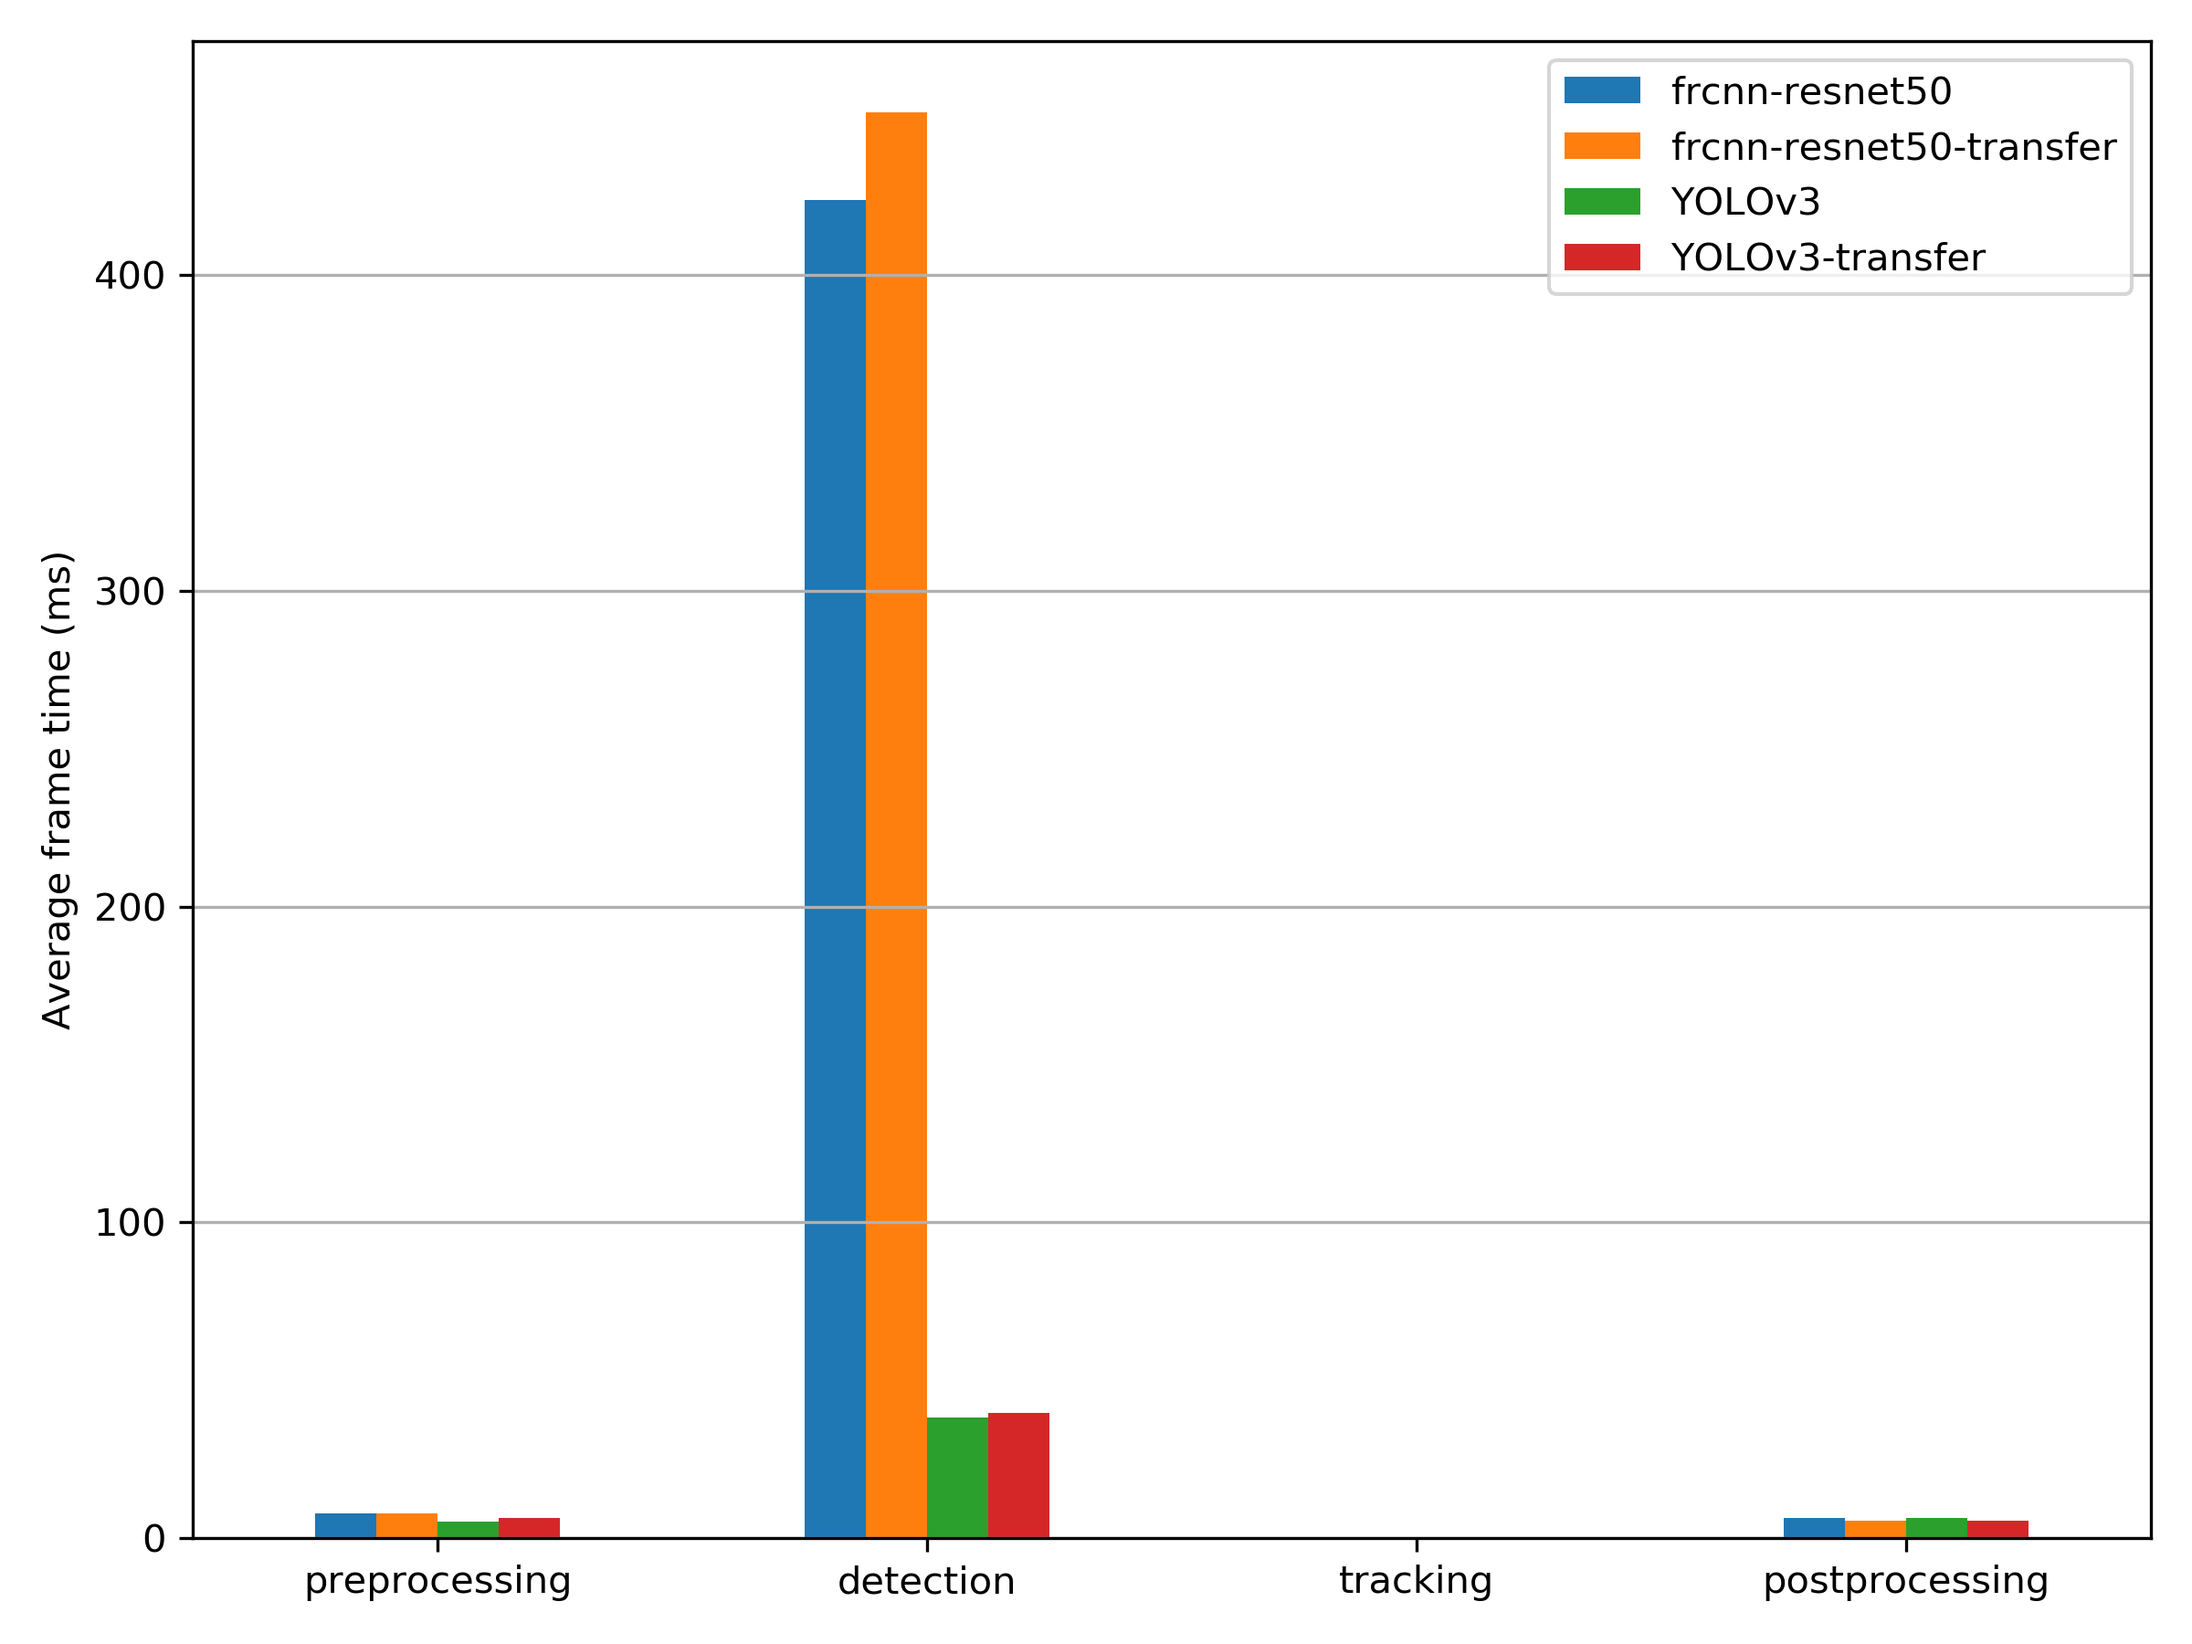
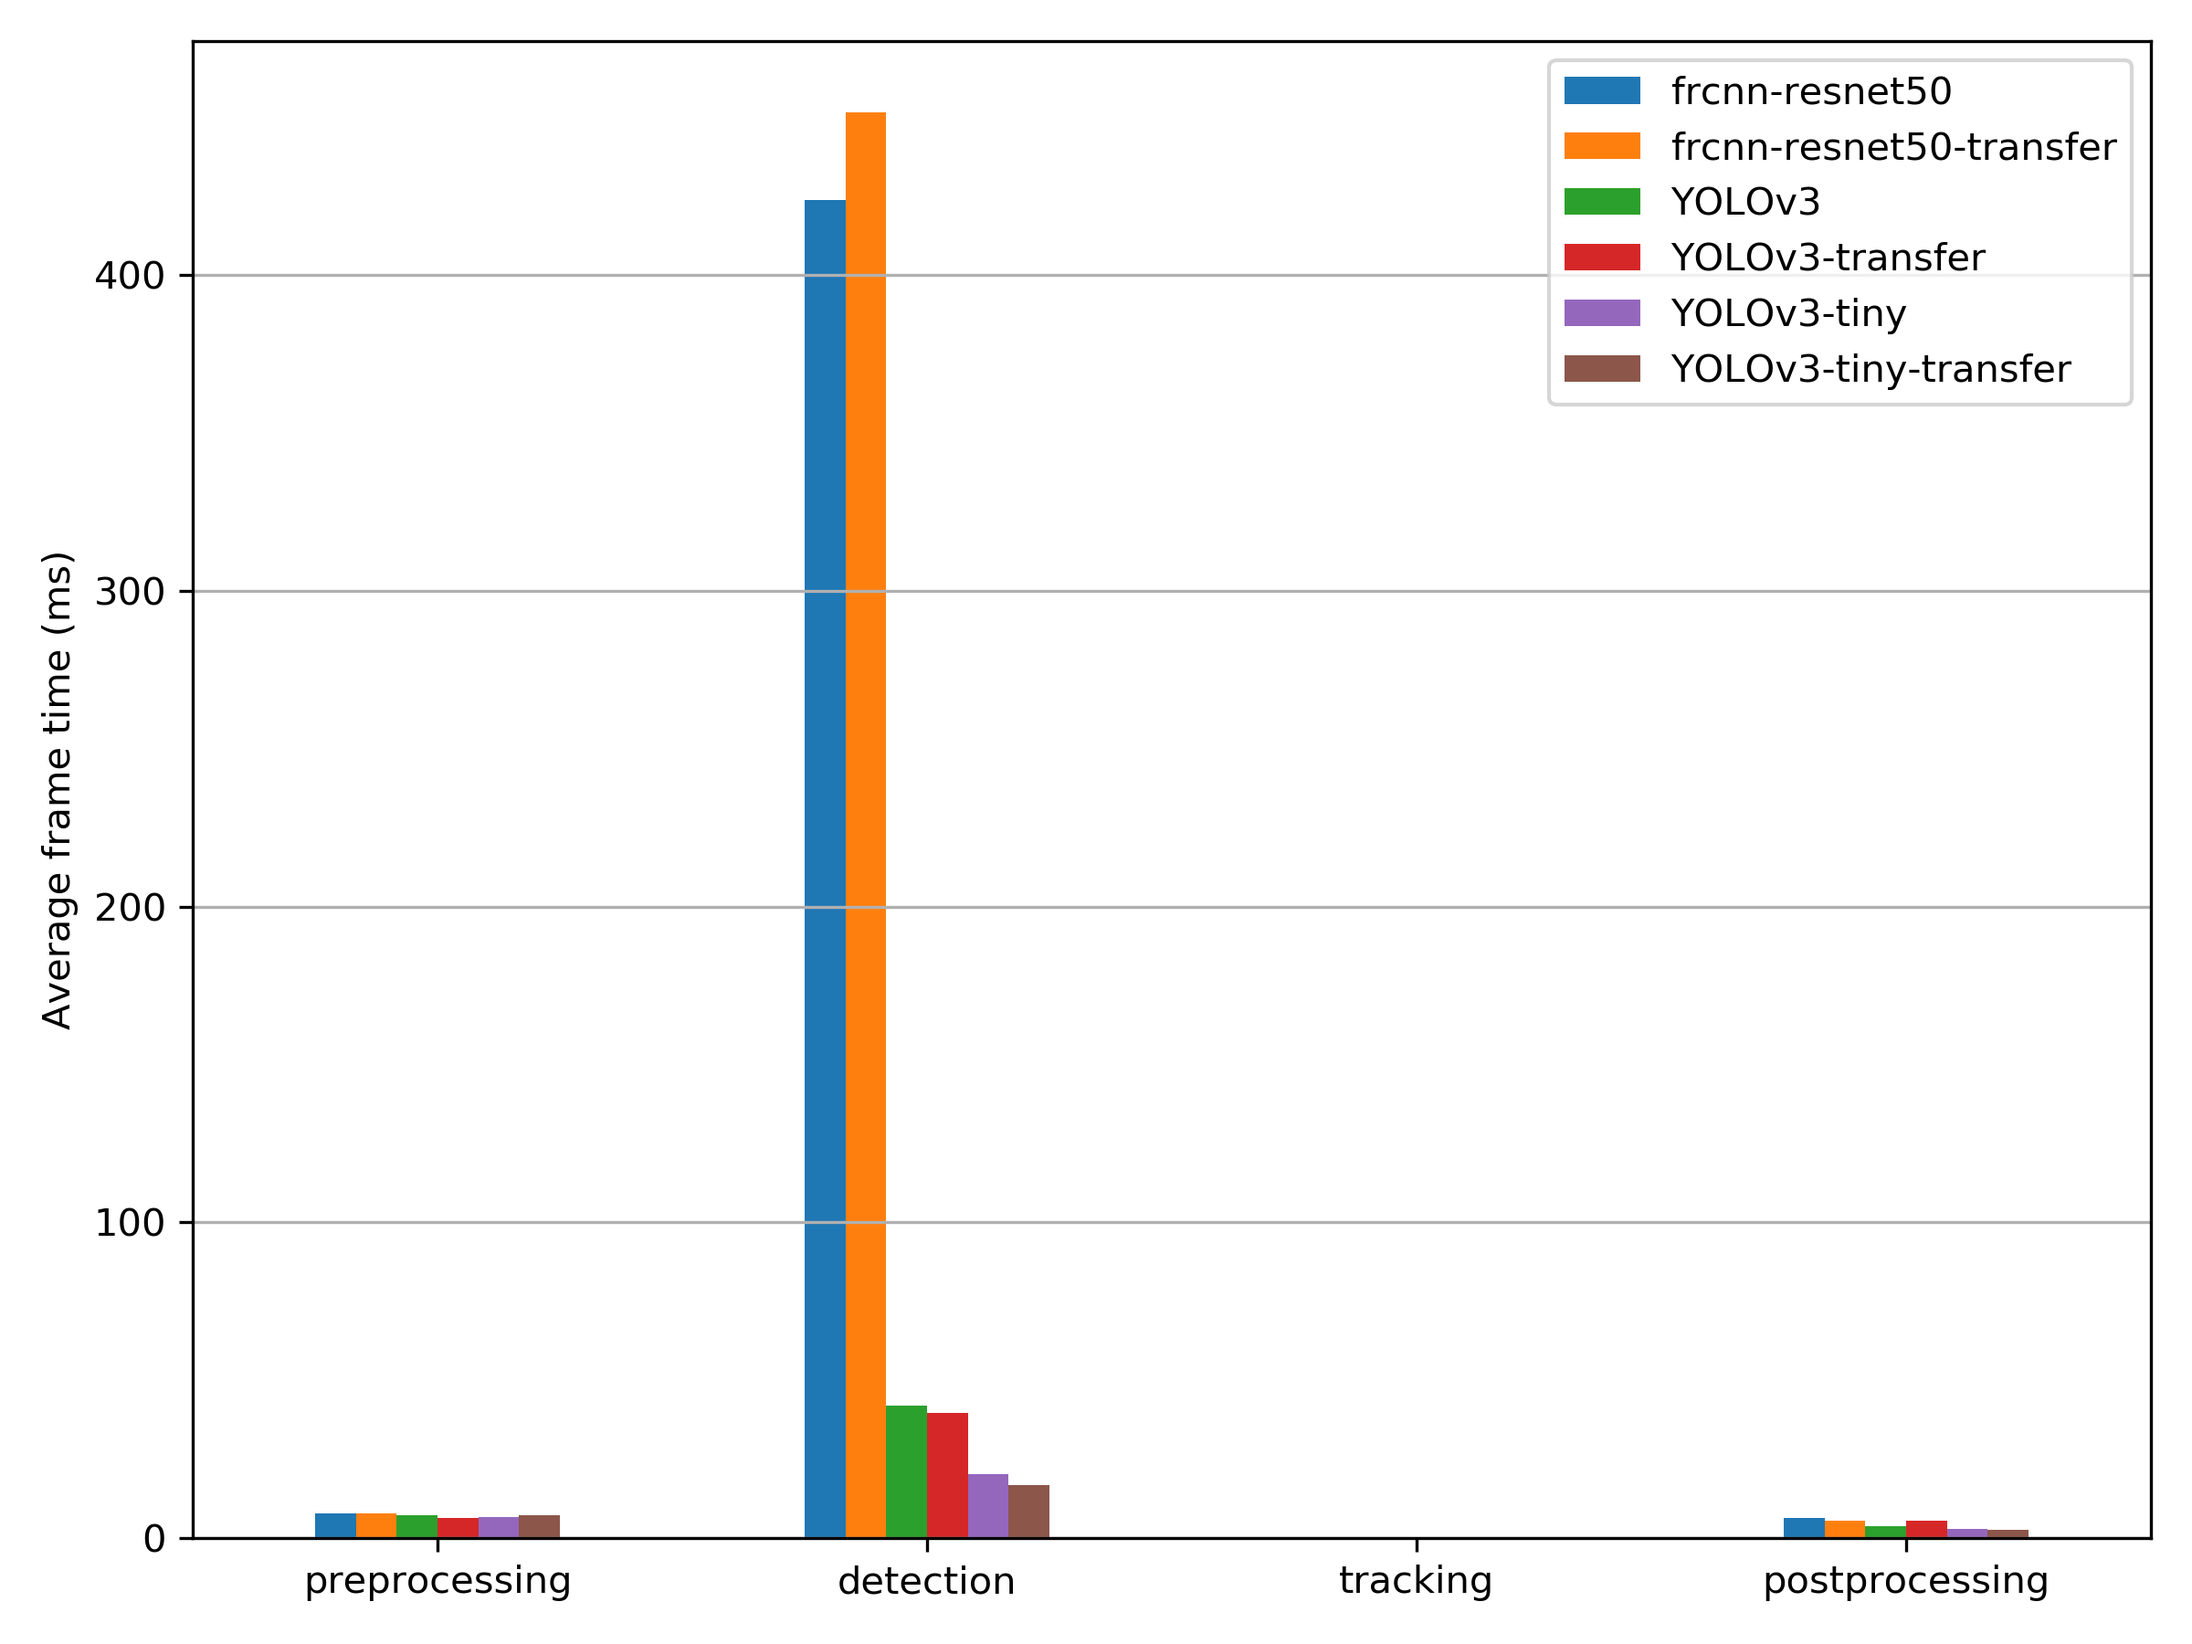
Update tiny yolo

diff --git a/docs/dev/results.html b/docs/dev/results.html
@@ -13,9 +13,9 @@
 <meta property="og:url" content="https://vvc-unal.github.io/docs/dev/results" />
 <meta property="og:site_name" content="Visual Vehicle Counting with machine learning" />
 <meta property="og:type" content="article" />
-<meta property="article:published_time" content="2019-06-09T22:00:00-05:00" />
+<meta property="article:published_time" content="2019-06-26T21:00:00-05:00" />
 <script type="application/ld+json">
-{"description":"Visual vehicle counting applied research project, based on machine learning and computer vision techniques. Object detection and tracking from videos.","@type":"BlogPosting","url":"https://vvc-unal.github.io/docs/dev/results","headline":"Results (so far)","dateModified":"2019-06-09T22:00:00-05:00","datePublished":"2019-06-09T22:00:00-05:00","mainEntityOfPage":{"@type":"WebPage","@id":"https://vvc-unal.github.io/docs/dev/results"},"@context":"https://schema.org"}</script>
+{"description":"Visual vehicle counting applied research project, based on machine learning and computer vision techniques. Object detection and tracking from videos.","@type":"BlogPosting","url":"https://vvc-unal.github.io/docs/dev/results","headline":"Results (so far)","dateModified":"2019-06-26T21:00:00-05:00","datePublished":"2019-06-26T21:00:00-05:00","mainEntityOfPage":{"@type":"WebPage","@id":"https://vvc-unal.github.io/docs/dev/results"},"@context":"https://schema.org"}</script>
 <!-- End Jekyll SEO tag -->
 <link rel="stylesheet" href="/assets/main.css"><link type="application/atom+xml" rel="alternate" href="https://vvc-unal.github.io/feed.xml" title="Visual Vehicle Counting with machine learning" /></head>
 <body><header class="site-header" role="banner">
@@ -40,7 +40,7 @@
   <header class="post-header">
     <h1 class="post-title p-name" itemprop="name headline">Results (so far)</h1>
     <p class="post-meta">
-      <time class="dt-published" datetime="2019-06-09T22:00:00-05:00" itemprop="datePublished">Jun 9, 2019
+      <time class="dt-published" datetime="2019-06-26T21:00:00-05:00" itemprop="datePublished">Jun 26, 2019
       </time></p>
   </header>
 
@@ -48,6 +48,7 @@
     <ul id="markdown-toc">
   <li><a href="#comparison" id="markdown-toc-comparison">Comparison</a></li>
   <li><a href="#videos" id="markdown-toc-videos">Videos</a>    <ul>
+      <li><a href="#tiny-yolo" id="markdown-toc-tiny-yolo">Tiny YOLO</a></li>
       <li><a href="#yolov3" id="markdown-toc-yolov3">YOLOv3</a></li>
       <li><a href="#faster-r-cnn" id="markdown-toc-faster-r-cnn">Faster R-CNN</a></li>
     </ul>
@@ -64,6 +65,26 @@
 <p><img src="/assets/img/fps.png" alt="FPS" /></p>
 
 <h2 id="videos">Videos</h2>
+
+<h3 id="tiny-yolo">Tiny YOLO</h3>
+
+<p><strong>CL 53 X CRA 60 910-911</strong></p>
+
+<div>
+<iframe width="560" height="315" src="https://www.youtube.com/embed/Sgiw3Q5gw9M" frameborder="0" allowfullscreen=""></iframe>
+</div>
+
+<p><strong>CRA 7 X CL 45 955-959</strong></p>
+
+<div>
+<iframe width="560" height="315" src="https://www.youtube.com/embed/qXporB3VfEs" frameborder="0" allowfullscreen=""></iframe>
+</div>
+
+<p><strong>CL 26 X CRA 33 600-610</strong></p>
+
+<div>
+<iframe width="560" height="315" src="https://www.youtube.com/embed/_RhFN6suBhI" frameborder="0" allowfullscreen=""></iframe>
+</div>
 
 <h3 id="yolov3">YOLOv3</h3>
 

diff --git a/index.html b/index.html
@@ -35,7 +35,7 @@
       <div class="wrapper">
         <div class="home"><p>Visual vehicle counting applied research project, based on machine learning and computer vision techniques. Object detection and tracking from videos.</p>
 <h2 class="post-list-heading">Posts</h2>
-    <ul class="post-list"><li><span class="post-meta">Jun 9, 2019</span>
+    <ul class="post-list"><li><span class="post-meta">Jun 26, 2019</span>
         <h3>
           <a class="post-link" href="/docs/dev/results">
             Results (so far)
